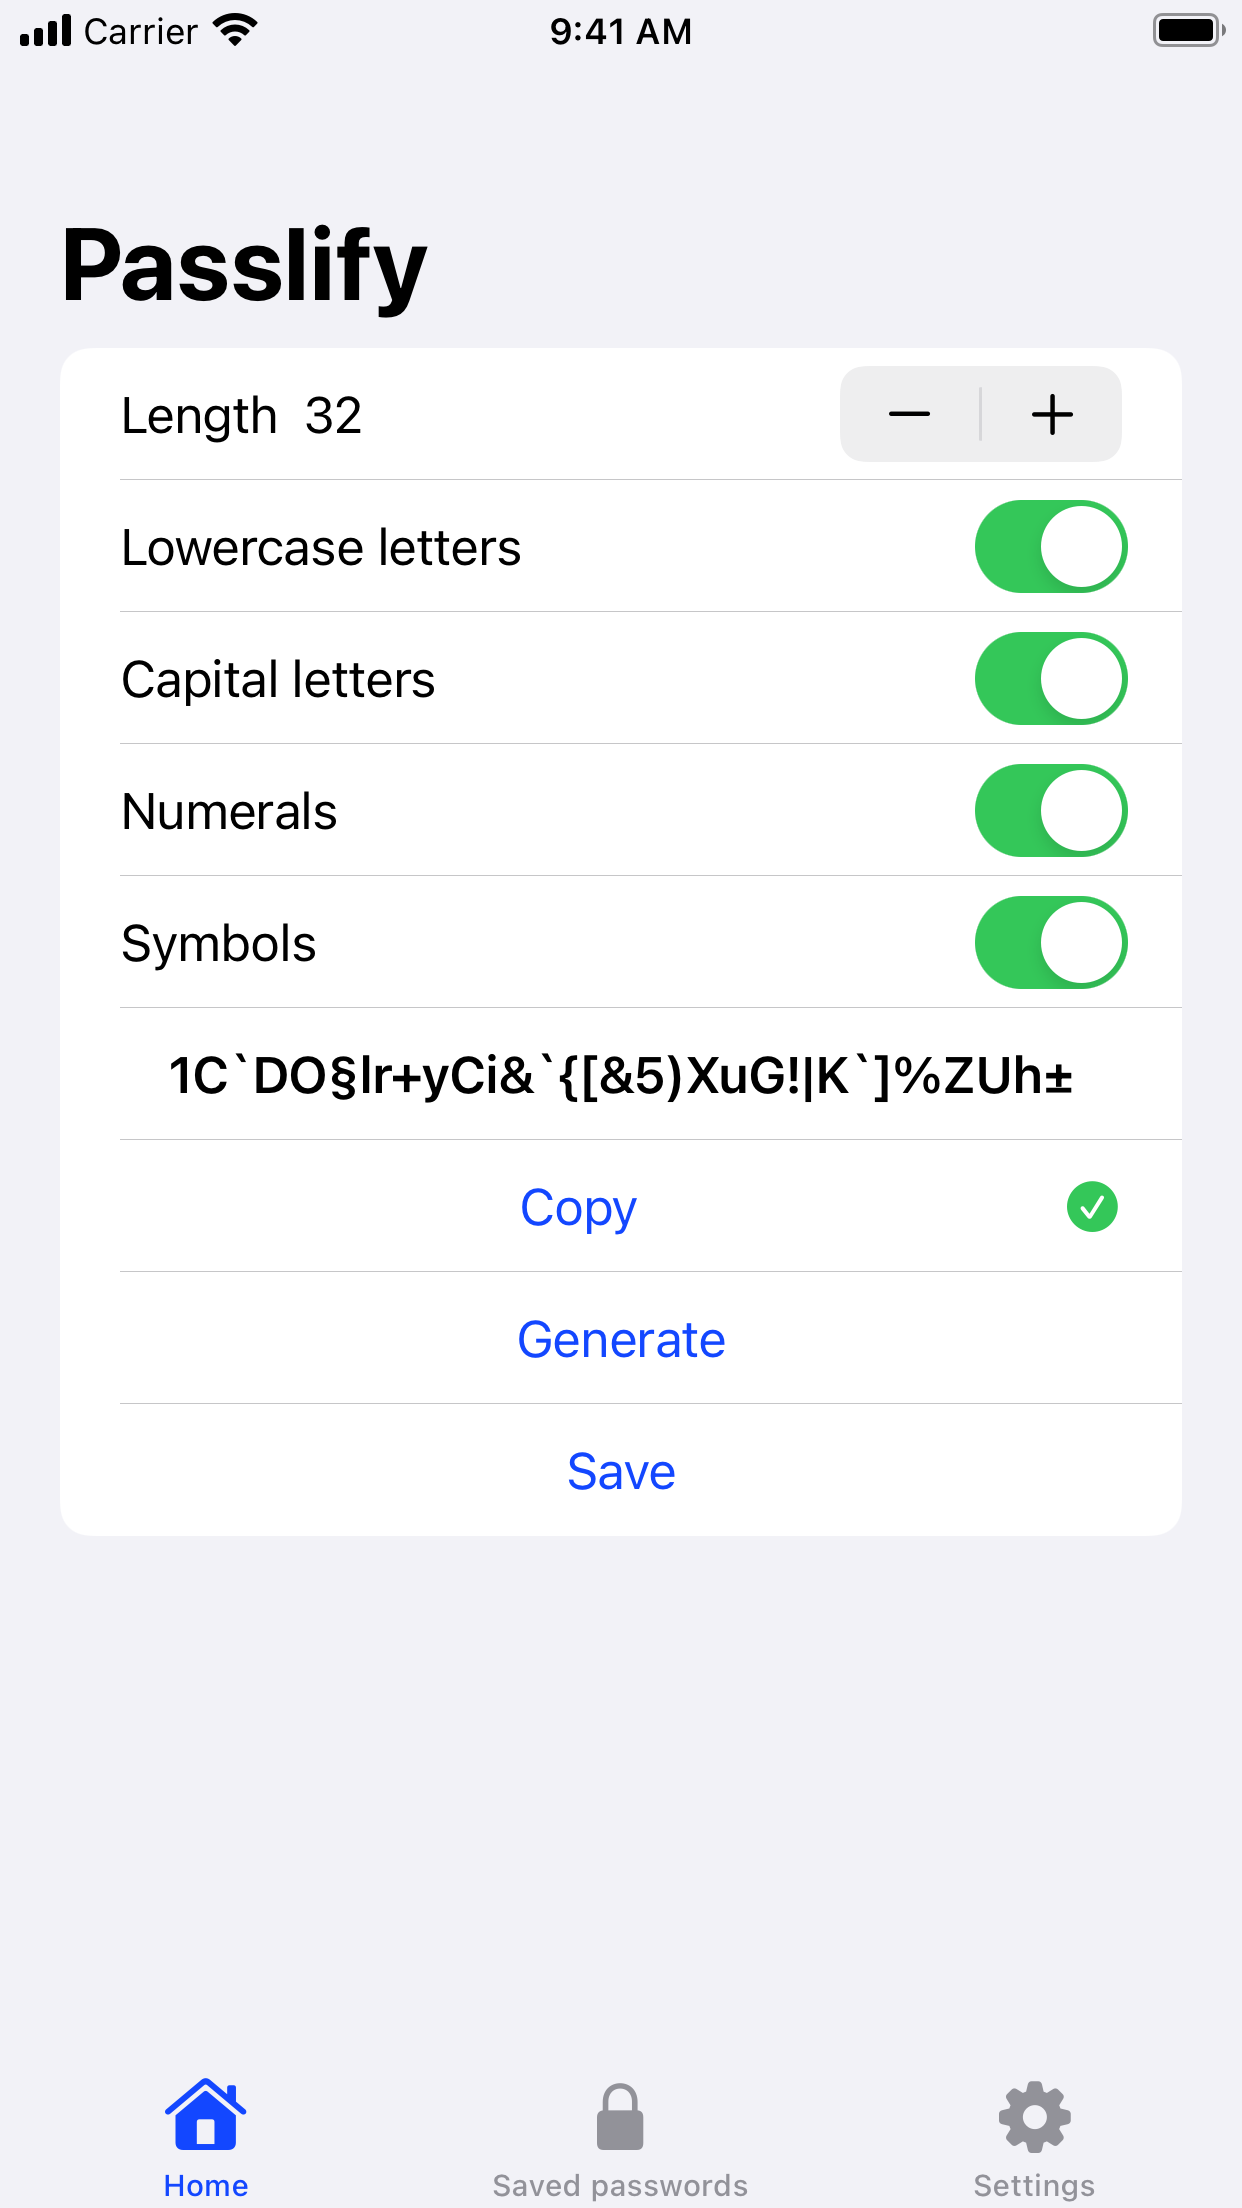
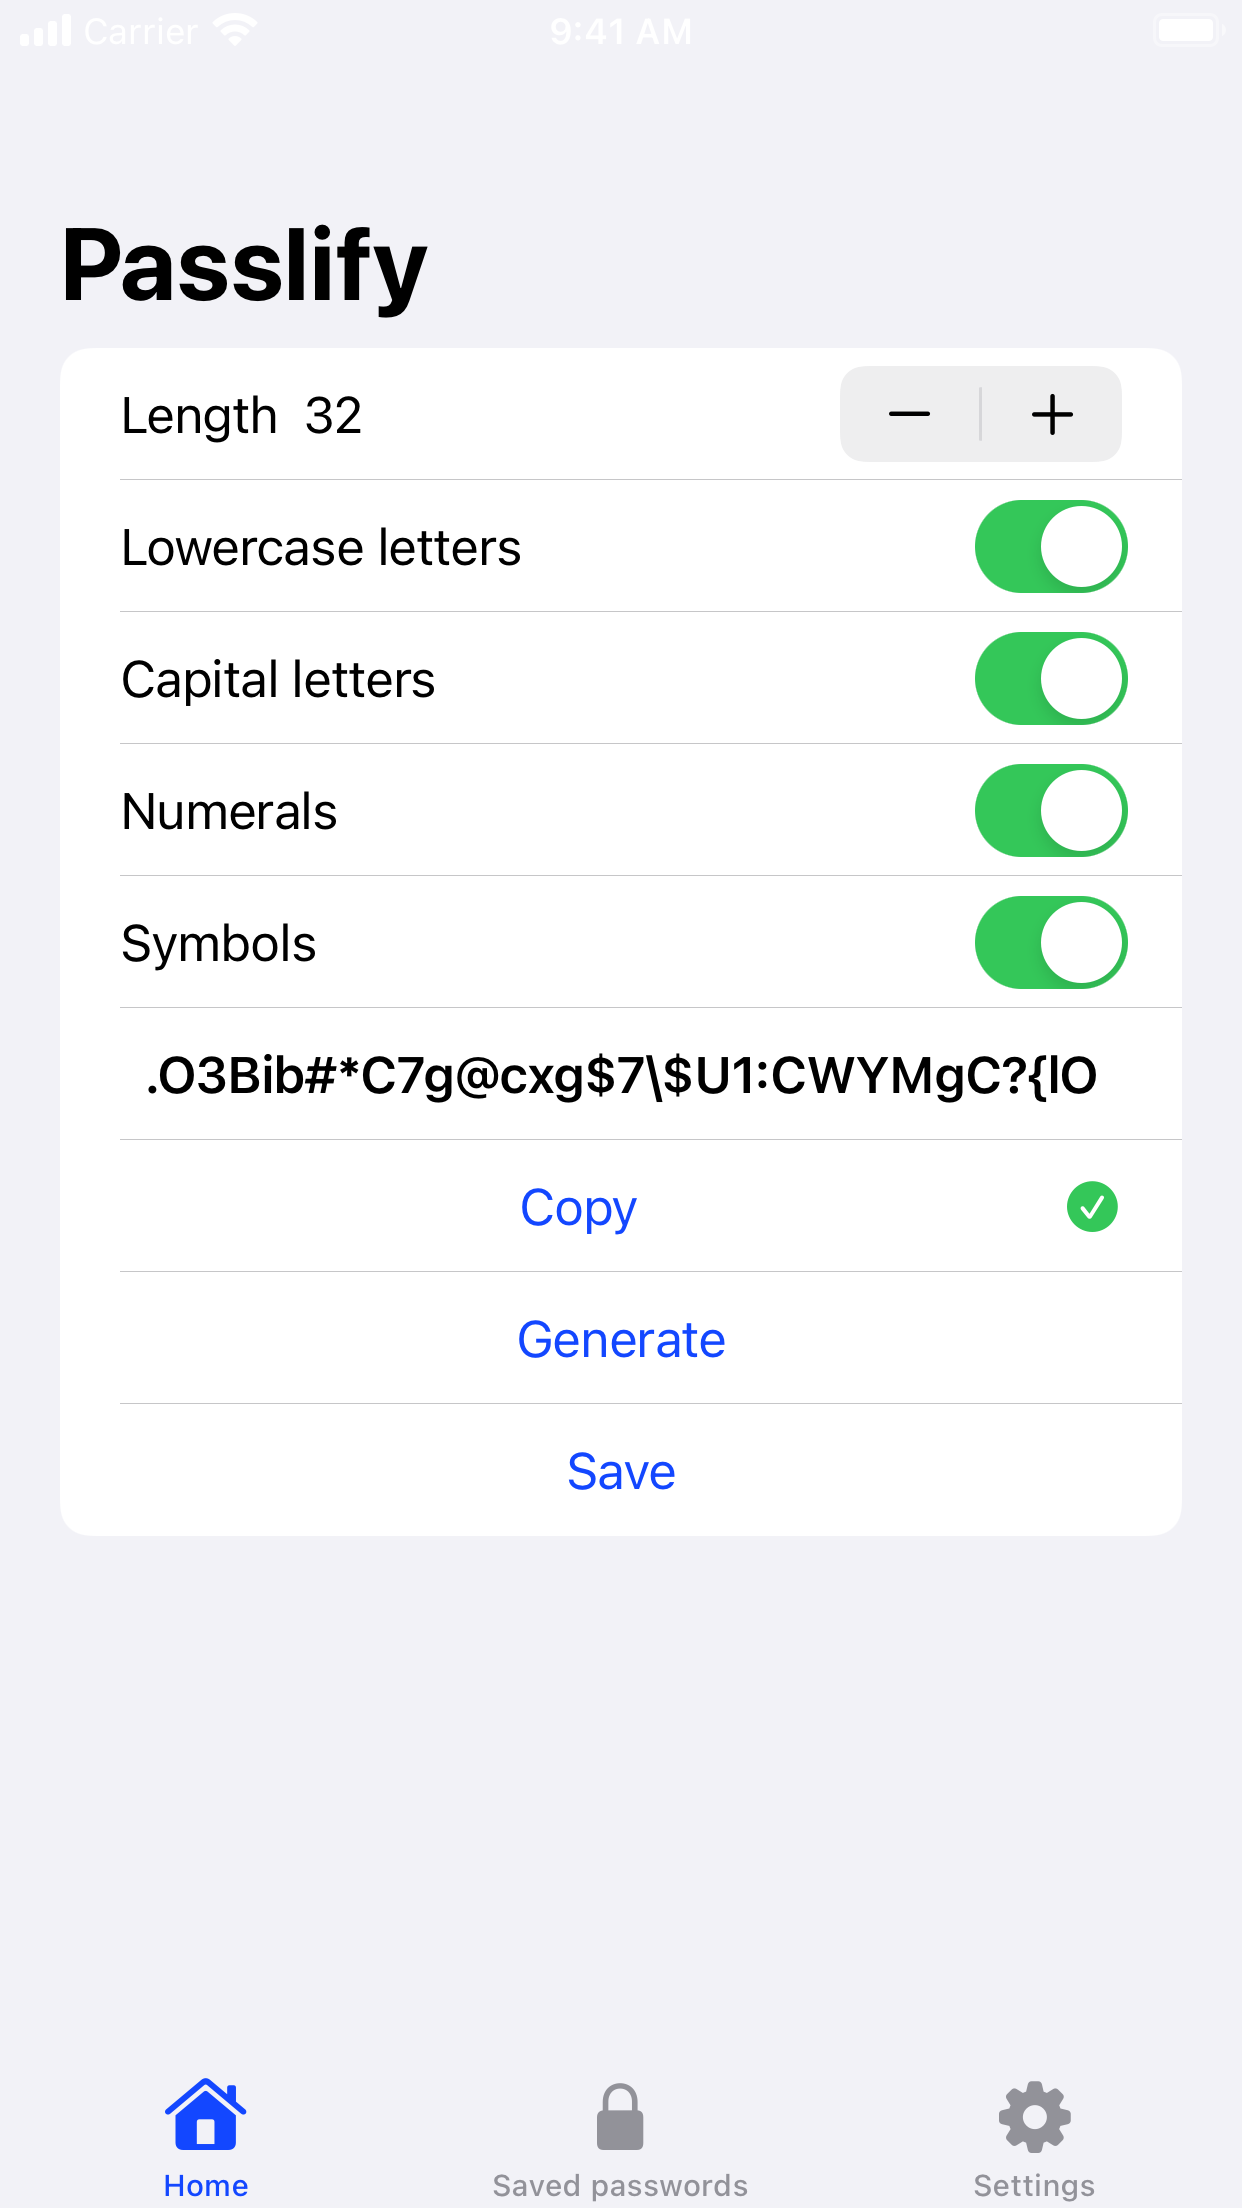
Fixing color scheme issue in test

diff --git a/Shared/SceneDelegate.swift b/Shared/SceneDelegate.swift
@@ -1,0 +1,47 @@
+//
+//  SceneDelegate.swift
+//  Password-Generator (iOS)
+//
+//  Created by Kamaal M Farah on 15/10/2021.
+//
+
+import UIKit
+
+class SceneDelegate: NSObject, UIWindowSceneDelegate {
+
+    func scene(
+        _ scene: UIScene,
+        willConnectTo session: UISceneSession,
+        options connectionOptions: UIScene.ConnectionOptions) {
+            #if DEBUG
+            if let windowScene = scene as? UIWindowScene {
+                windowScene.windows.forEach({ window in
+                    if CommandLine.launchArgumentIncludes(value: .uiTestingDarkMode) {
+                        window.overrideUserInterfaceStyle = .dark
+                    } else if CommandLine.launchArgumentIncludes(value: .uiTestingLightMode) {
+                        window.overrideUserInterfaceStyle = .light
+                    }
+                })
+            }
+            #endif
+    }
+
+    // MARK: Life Cycle Methods
+
+    func sceneDidDisconnect(_ scene: UIScene) { }
+
+    func sceneDidBecomeActive(_ scene: UIScene) { }
+
+    func sceneWillResignActive(_ scene: UIScene) { }
+
+    func sceneWillEnterForeground(_ scene: UIScene) { }
+
+    func sceneDidEnterBackground(_ scene: UIScene) {
+        do {
+            try PersistenceController.shared.save()
+        } catch {
+            print("Could not save when entering background", error)
+        }
+    }
+
+}

diff --git a/Tests/Screenshots/Password_GeneratorScreenshotsIOS.swift b/Tests/Screenshots/Password_GeneratorScreenshotsIOS.swift
@@ -18,21 +18,25 @@ final class Password_GeneratorScreenshotsIOS: XCTestCase {
 
     func testLightMode() throws {
         let app = XCUIApplication()
-        app.launchArguments.append("isUITesting")
         setupSnapshot(app)
+
+        app.launchArguments.append("isUITesting")
+        app.launchArguments.append("UITestingLightMode")
+
         app.launch()
 
-        app.launchArguments.append("UITestingLightMode")
         try screenshotFlow(app: app, scheme: "light")
     }
 
     func testDarkMode() throws {
         let app = XCUIApplication()
-        app.launchArguments.append("isUITesting")
         setupSnapshot(app)
+
+        app.launchArguments.append("isUITesting")
+        app.launchArguments.append("UITestingDarkMode")
+
         app.launch()
 
-        app.launchArguments.append("UITestingDarkMode")
         try screenshotFlow(app: app, scheme: "dark")
     }
 

diff --git a/Shared/AppDelegate_iOS.swift b/Shared/AppDelegate_iOS.swift
@@ -1,0 +1,25 @@
+//
+//  AppDelegate_iOS.swift
+//  Password-Generator (iOS)
+//
+//  Created by Kamaal M Farah on 15/10/2021.
+//
+
+import UIKit
+
+class AppDelegate: NSObject, UIApplicationDelegate {
+
+    func application(
+        _ application: UIApplication,
+        didFinishLaunchingWithOptions launchOptions: [UIApplication.LaunchOptionsKey: Any]? = nil) -> Bool { true }
+
+    func application(
+        _ application: UIApplication,
+        configurationForConnecting connectingSceneSession: UISceneSession,
+        options: UIScene.ConnectionOptions) -> UISceneConfiguration {
+            let sceneConfig = UISceneConfiguration(name: nil, sessionRole: connectingSceneSession.role)
+            sceneConfig.delegateClass = SceneDelegate.self
+            return sceneConfig
+    }
+
+}

diff --git a/Shared/PasslifyApp.swift b/Shared/PasslifyApp.swift
@@ -12,7 +12,12 @@ struct PasslifyApp: App {
     #if os(macOS)
     @NSApplicationDelegateAdaptor
     private var appDelegate: AppDelegate
+    #else
+    @UIApplicationDelegateAdaptor
+    private var appDelegate: AppDelegate
     #endif
+
+    init() { }
 
     private let persistenceController = PersistenceController.shared
 
@@ -20,10 +25,6 @@ struct PasslifyApp: App {
         WindowGroup {
             ContentView()
                 .environment(\.managedObjectContext, persistenceController.context!)
-                // - TODO: MAKE THIS ONLY WORK FOR WHEN TAKING SCREENSHOTS
-                #if DEBUG
-                .colorScheme(CommandLine.launchArgumentIncludes(value: .uiTestingDarkMode) ? .dark : .light)
-                #endif
         }
         #if os(macOS)
         Settings {
